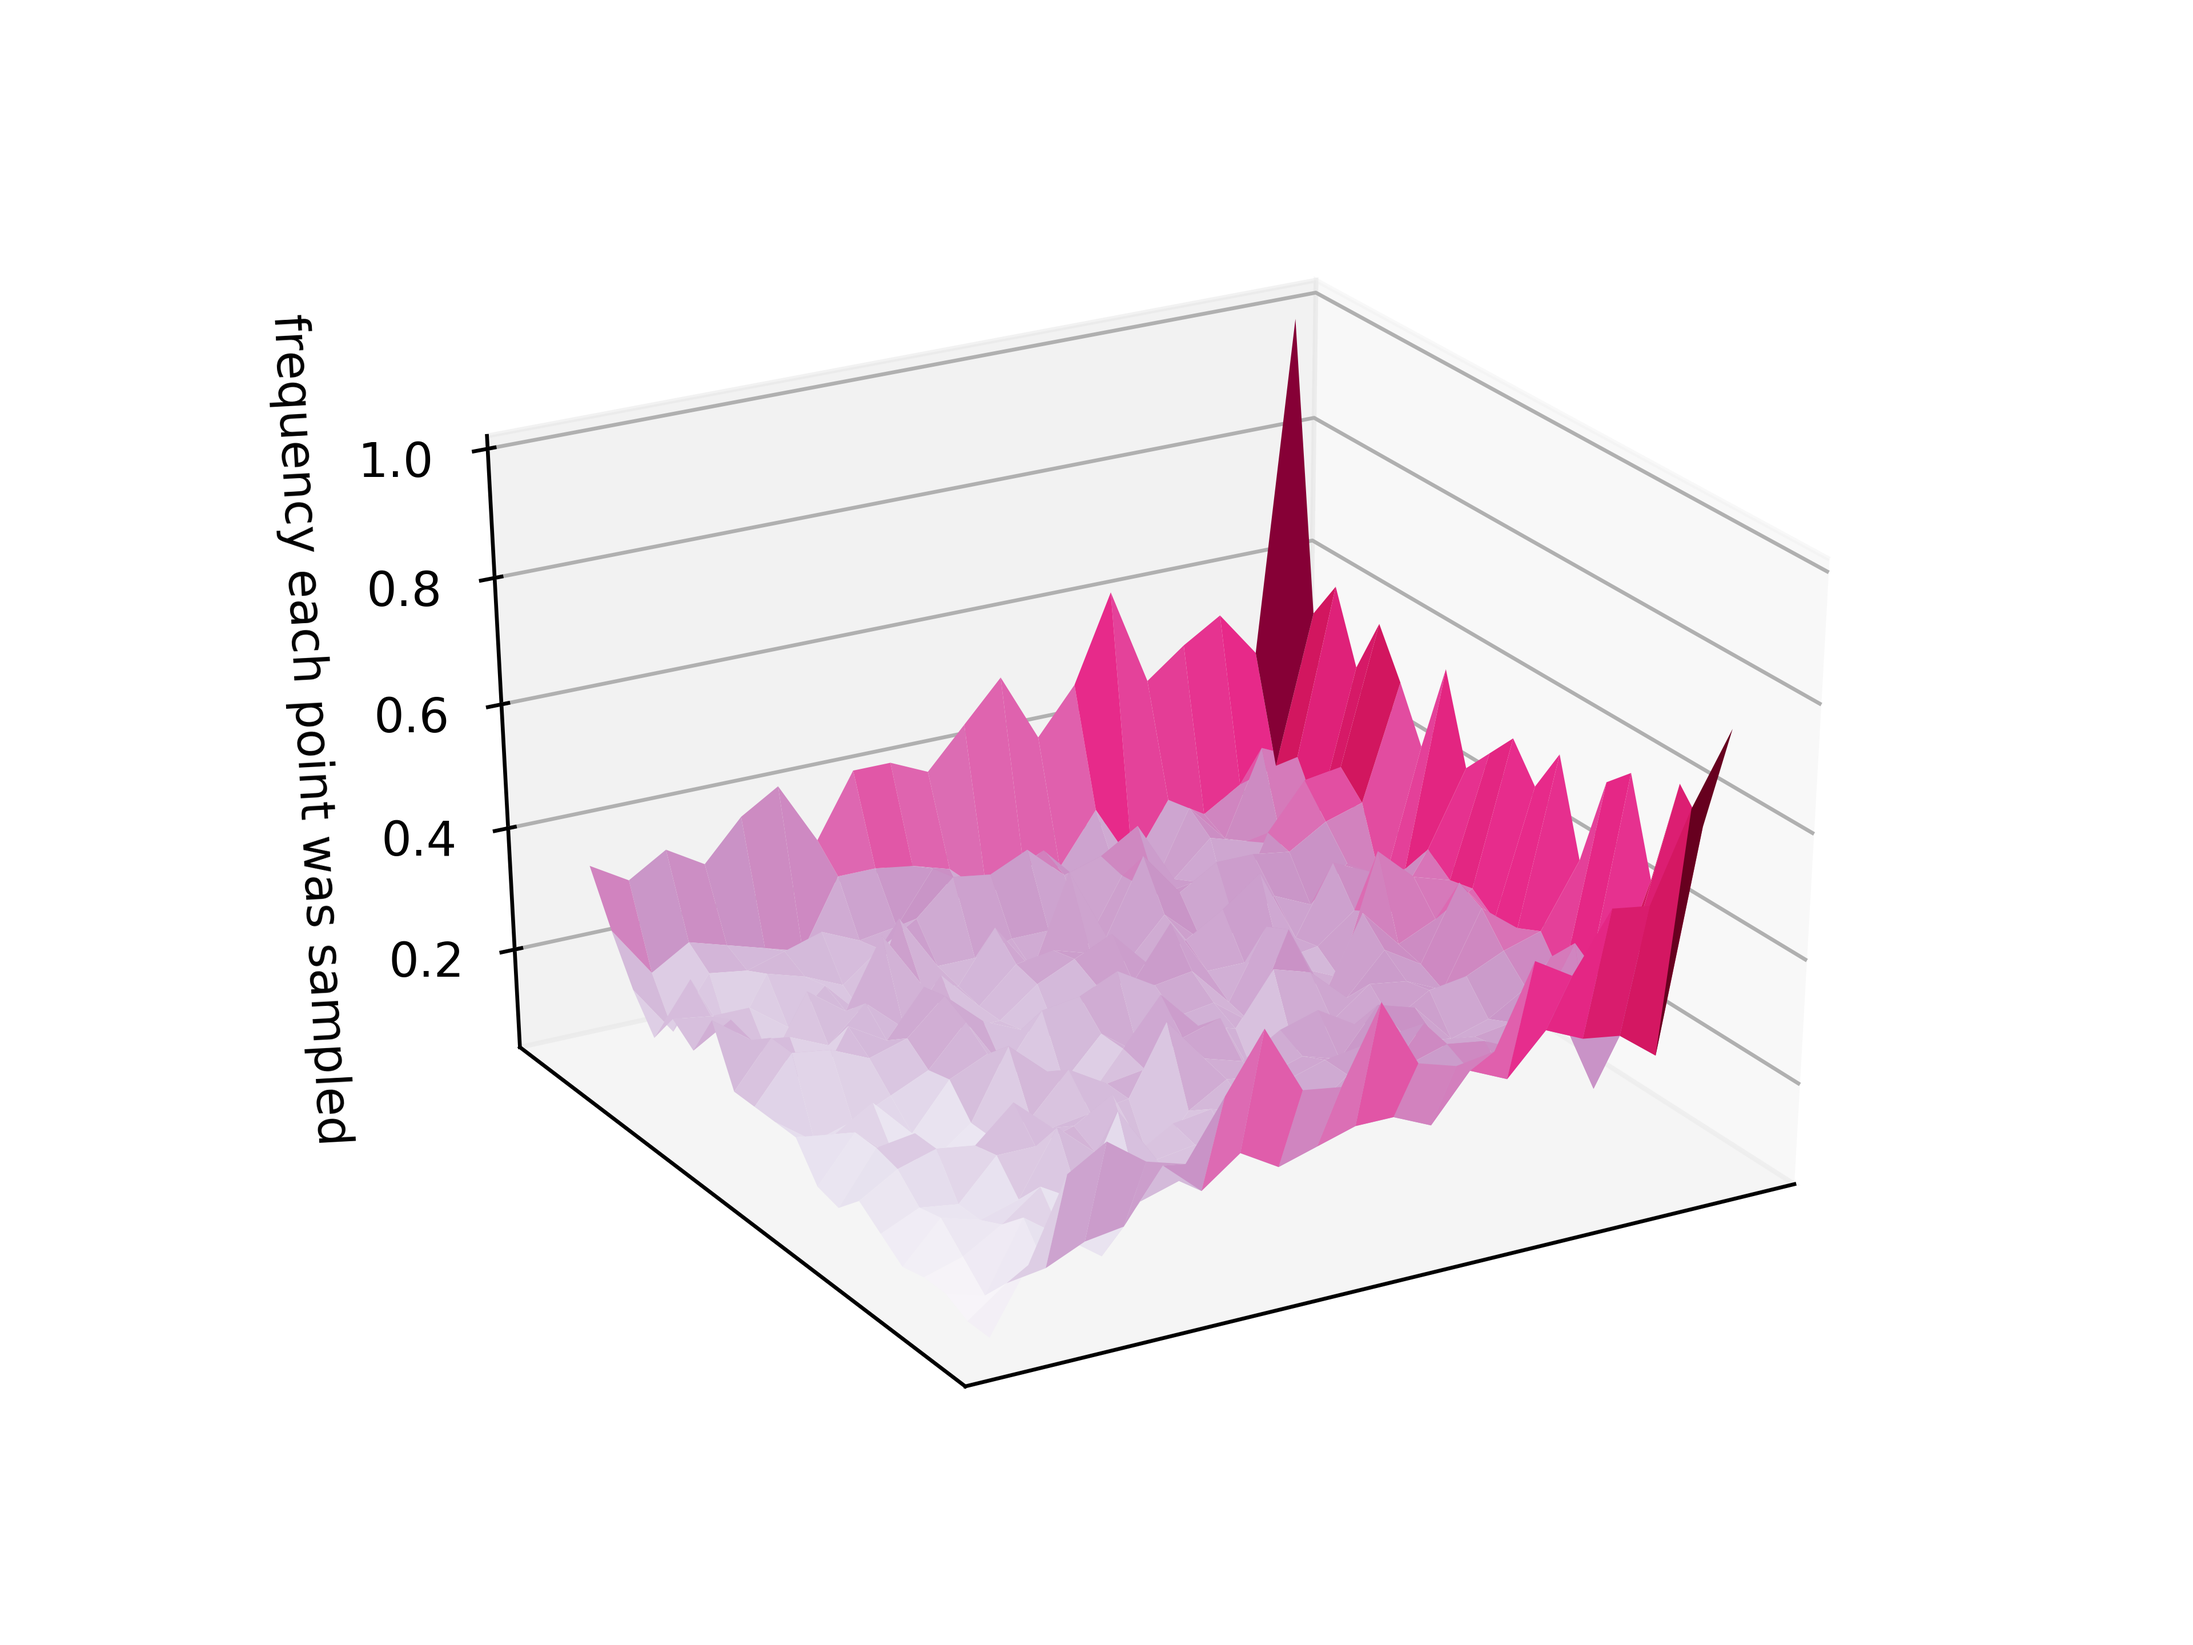
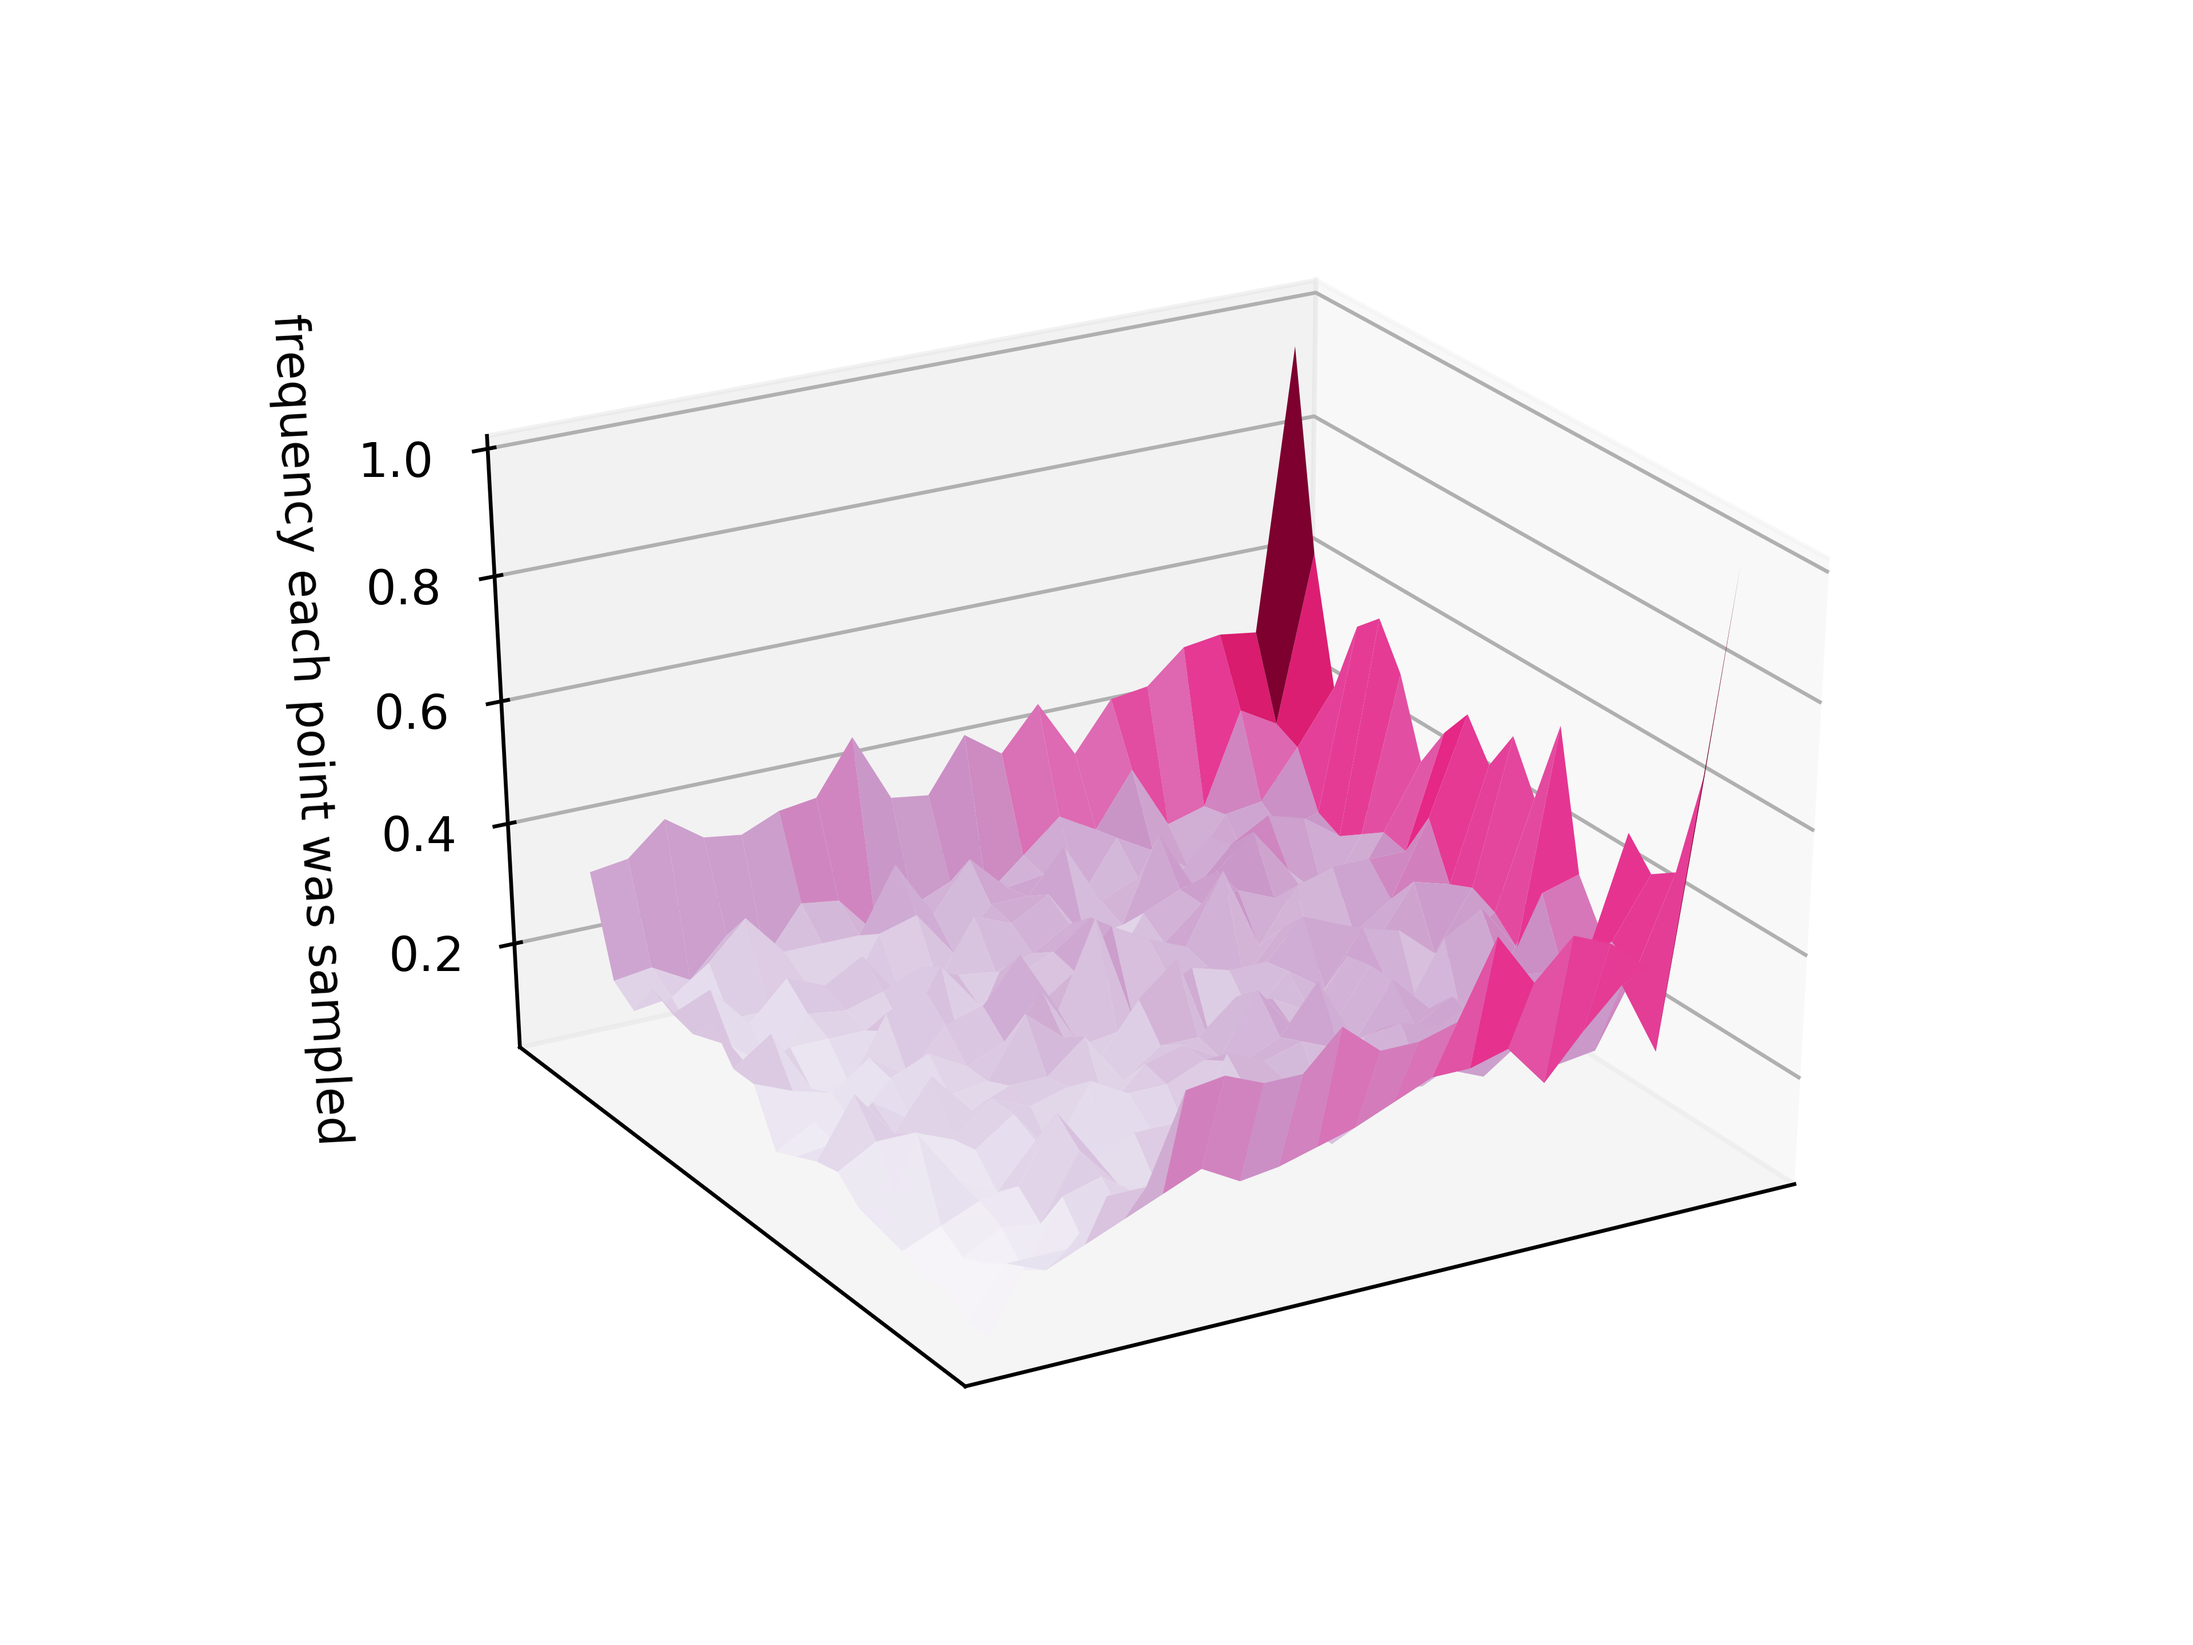
Added Adam and plotting path

Changed region(s): [[0.1562, 0.3125, 0.8125, 0.7812], [0.3125, 0.375, 0.4062, 0.4062], [0.2188, 0.4062, 0.3125, 0.4375]]

diff --git a/LearningDPPs/GradientAscent.py b/LearningDPPs/GradientAscent.py
@@ -41,7 +41,7 @@ def dLhd_dtheta(theta, A):
     ''' Gradient of the likelihood wrt theta, 'A' is an array of samples '''
     return np.array([dLikelihood_dtheta_l(theta, A, l) for l in range(len(theta))])
 
-def gradientAscent(theta, A, m, batch_size=10, decay_start=20, alpha_0 = 1):
+def SGD(theta, A, m, batch_size=10, decay_start=20, alpha_0 = 1):
     grad = []
     for t in range(1, m+1):
         alpha = alpha_0 * min(1, (decay_start/t)**2)
@@ -53,6 +53,20 @@ def gradientAscent(theta, A, m, batch_size=10, decay_start=20, alpha_0 = 1):
         print((theta, t, alpha))
     return theta, grad
 
+def Adam(theta, A, n_iter, alpha=0.5, batch_size=10, beta_1=0.9, beta_2=0.999, epsilon=0.001):
+    m, v = np.zeros(len(theta))
+    grad = []
+    for t in range(1, n_iter+1):
+        As = A[np.random.randint(0, len(A), batch_size)]
+        g = dLhd_dtheta(theta, As)
+        m = beta_1 * m + (1 - beta_1) * g
+        v = beta_2 * v + (1 - beta_2) * np.power(g, 2)
+        m_hat = m / (1 - np.power(beta_1, t))
+        v_hat = v / (1 - np.power(beta_2, t))
+        theta += alpha * m_hat / (np.sqrt(v_hat) + epsilon)
+        grad.append((theta.copy(), (g/np.linalg.norm(g)).copy()))
+        print((theta, t, alpha))
+    return theta, grad
 
 n, sigma = 20, 0.2
 N = n*n
@@ -72,6 +86,10 @@ print('...generating samples')
 samples = [dpp.sample() for _ in tqdm(range(T))]
 
 
+# print('SGD:')
+# theta = np.array([10.,10.])
+# theta, grad = SGD(theta, np.array(samples), 100)
+print('Adam:')
 theta = np.array([10.,10.])
-theta, grad = gradientAscent(theta, np.array(samples), 100)
+theta, grad = Adam(theta, np.array(samples), 200)
 

diff --git a/LearningDPPs/PlotLikelihood.py b/LearningDPPs/PlotLikelihood.py
@@ -2,6 +2,7 @@ from MLE_QualityModel import *
 import matplotlib.pyplot as plt
 from mpl_toolkits.mplot3d import Axes3D
 import matplotlib as mpl
+import matplotlib.cm as cm
 from mpl_toolkits import mplot3d
 from matplotlib.ticker import MaxNLocator
 import itertools, collections
@@ -18,7 +19,7 @@ def plot_sample(filename, sample):
     plt.savefig('plots/'+filename, dpi=600)
     plt.show()
 
-def likelihood_heatmap(th1, th2, lkhd, filename, angle=0, vectors=None):
+def likelihood_heatmap(th1, th2, lkhd, filename, angle=0, vectors=None, adam=False):
     ax = plt.axes(projection='3d')
     ax.view_init(30, angle)
 
@@ -30,6 +31,9 @@ def likelihood_heatmap(th1, th2, lkhd, filename, angle=0, vectors=None):
         c = lengths/np.array(dx**2 + dy**2 + dz**2)
         dx, dy, dz = c*dx, c*dy, c*dz
         q = ax.quiver(x, y, z, dx, dy, dz, length=0.5, cmap='Reds', lw=1)
+        if adam:
+            lengths = np.ones(len(x))
+            lengths[-1] = 0
         q.set_array(lengths)
 
         lkhd /= 10000
@@ -86,7 +90,8 @@ for (th, dth) in grad:
    f1, f2 = Likelihood(samples, th), Likelihood(samples, th+dth)
    values.append((th[0], th[1], f1-mn, dth[0], dth[1], f2-f1))
 vectors = tuple(zip(*values))
-likelihood_heatmap(th1, th2, likelihood, 'likelihood_theta', angle=150, vectors=vectors)
+# likelihood_heatmap(th1, th2, likelihood, 'likelihood_theta', angle=150, vectors=vectors)
+likelihood_heatmap(th1, th2, likelihood, 'likelihood_theta', angle=150, vectors=vectors, adam=True)
 
 
 plot_sample('sample', samples[0])
